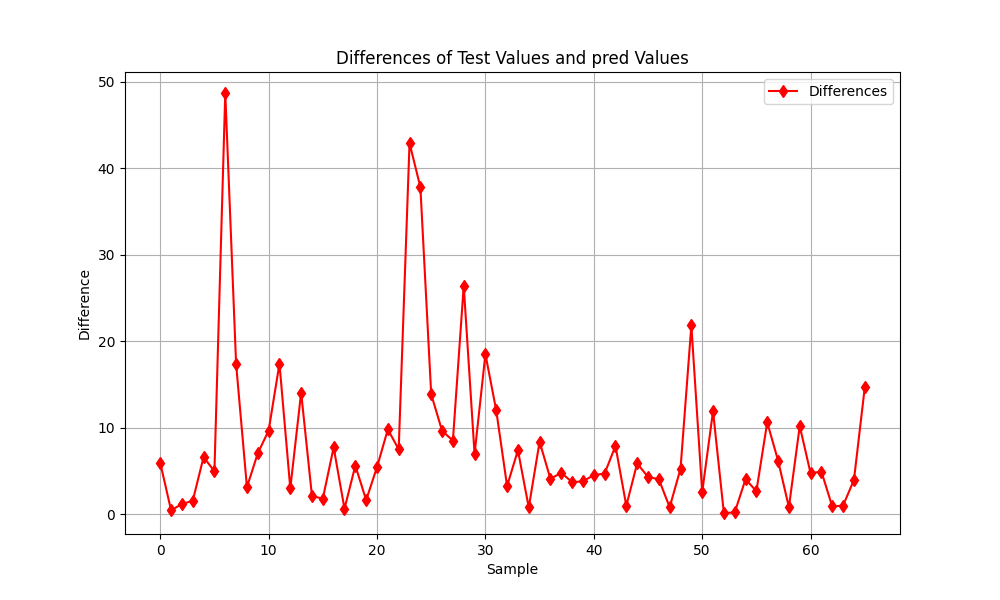
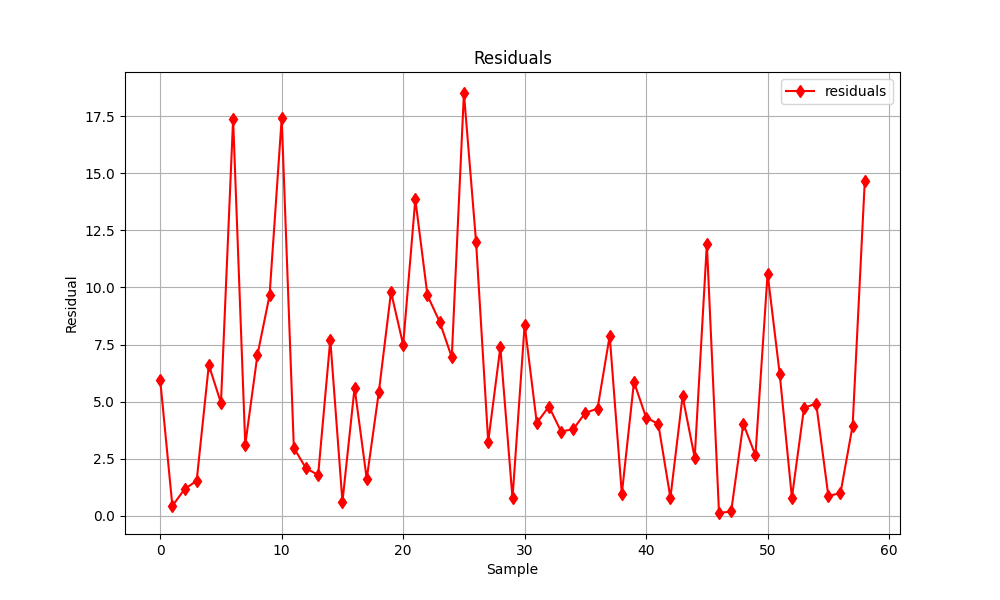
对残差图和残差率图进行了优化

diff --git a/validation/CrossValidation/pred_real_compare.py b/validation/CrossValidation/pred_real_compare.py
@@ -1,5 +1,6 @@
 import matplotlib.pyplot as plt
 import json
+import time
 
 
 
@@ -28,17 +29,35 @@ step = 1500
 test_values_sampled = test_values_flat[::step]
 pred_values_sampled = pred_values_flat[::step]
 
-# 计算差距
-differences_sampled = [abs(t - p) for t, p in zip(test_values_sampled, pred_values_sampled)]
+# 计算残差
+residuals_sampled = [abs(t - p) for t, p in zip(test_values_sampled, pred_values_sampled)]
 
-# 绘制曲线图
+# 计算残差率
+residual_percentage = [(t - p) / t * 100 if t != 0 else 0 for t, p in zip(test_values_sampled, pred_values_sampled)]
+
+filtered_residuals = []
+filtered_residual_percentage = []
+for residual, percentage in zip(residuals_sampled, residual_percentage):
+    if residual <= 20 and percentage <= 10 and percentage >= -10:
+        filtered_residuals.append(residual)
+        filtered_residual_percentage.append(percentage/100)
+
+# 绘制残差图
 plt.figure(figsize=(10, 6))
-plt.plot(range(len(differences_sampled)), differences_sampled, label='Differences', marker='d', color='r', linestyle='-')
-
-# 添加标签和标题
+plt.plot(range(len(filtered_residuals)), filtered_residuals, label='residuals', marker='d', color='r', linestyle='-')
 plt.xlabel('Sample')
-plt.ylabel('Difference')
-plt.title('Differences of Test Values and pred Values')
+plt.ylabel('Residual')
+plt.title('Residuals')
+plt.legend()
+plt.grid(True)
+plt.show()
+
+# 绘制残差率图
+plt.figure(figsize=(10, 6))
+plt.plot(range(len(filtered_residual_percentage)), filtered_residual_percentage, label='residual percentage', marker='o', color='b', linestyle='-')
+plt.xlabel('Sample')
+plt.ylabel('Residual Percentage')
+plt.title('Residual Percentage')
 plt.legend()
 plt.grid(True)
 plt.show()

diff --git a/README.md b/README.md
@@ -526,13 +526,8 @@ Evaluate Result: Test loss: 0.693547248840332, Test MAE: 0.6231892704963684
 ![MAE curve](./pic/MAE_Curve.png)
 
 
-## 4.2 基于均方误差（MSE）的评估
 
 ## 4.3 基于全数据集的交叉验证评估
-
-
-
-## 4.2 基于全数据集预测的评估
 
 ### 4.2.1 评估过程
 
@@ -552,8 +547,12 @@ with open("y_test.json", "w") as file:
 
 ### 4.2.2 评估结果&可视化
 
-我们将所有的预测值导出并保存在本地项目的`y_pred.json`中，将所有的真实值导出并保存在本地项目的`y_test.json`中，可视化结果如下：
+我们将所有的预测值导出并保存在本地项目的`y_pred.json`中，将所有的真实值导出并保存在本地项目的`y_test.json`中，分析预测值和真实值之间的残差和残差率，可视化结果如下：
 
-## 4.3 【LZK补充】
+![Diff curve](./pic/Diff_Curve.png)
+![Diff Ratio curve](./pic/Diff_Ratio_Curve.png)
 
-## 4.4 【LZK补充】
+
+## 4.3 基于均方误差（MSE）的评估
+
+
